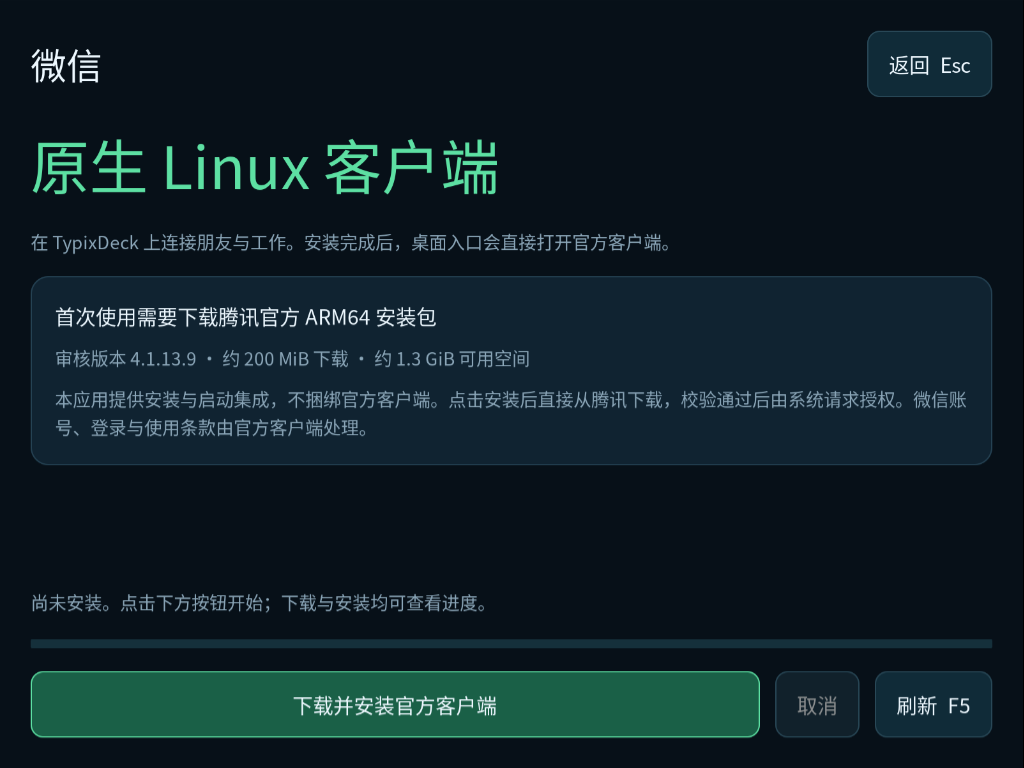
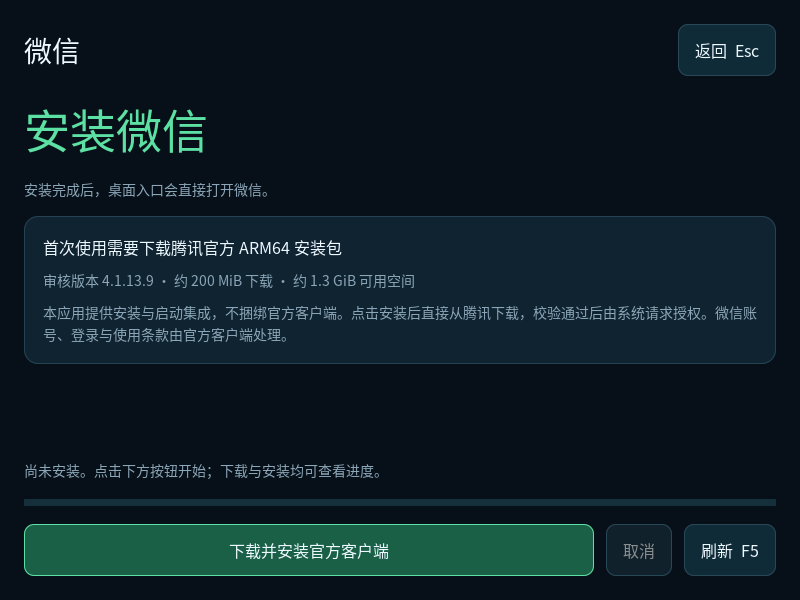
Fix installed WeChat startup and single-instance window supervision

diff --git a/src/typix_wechat/app.py b/src/typix_wechat/app.py
@@ -43,7 +43,7 @@ def label(text, style=None):
 
 
 class WeChatApplication(Gtk.Application):
-    def __init__(self):
+    def __init__(self, startup_error=None):
         super().__init__(application_id=APP_ID, flags=Gio.ApplicationFlags.FLAGS_NONE)
         self.window = None
         self.busy = False
@@ -51,7 +51,7 @@ class WeChatApplication(Gtk.Application):
         self.cancel_event = threading.Event()
         self.transaction = None
         self.close_when_done = False
-        self.first_activation = True
+        self.startup_error = startup_error
         self.cache = Path(os.environ.get("XDG_CACHE_HOME", Path.home() / ".cache")) / "typix-wechat/download"
 
     def do_activate(self):
@@ -82,9 +82,12 @@ class WeChatApplication(Gtk.Application):
         root.pack_start(scroll, True, True, 0)
         content = Gtk.Box(orientation=Gtk.Orientation.VERTICAL, spacing=16)
         scroll.add(content)
-        content.pack_start(label("原生 Linux 客户端", "hero"), False, False, 0)
-        content.pack_start(label("在 TypixDeck 上连接朋友与工作。安装完成后，桌面入口会直接打开官方客户端。", "subtitle"), False, False, 0)
+        self.hero = label("安装微信", "hero")
+        content.pack_start(self.hero, False, False, 0)
+        self.subtitle = label("安装完成后，桌面入口会直接打开微信。", "subtitle")
+        content.pack_start(self.subtitle, False, False, 0)
         info = Gtk.Box(orientation=Gtk.Orientation.VERTICAL, spacing=10)
+        self.install_info = info
         info.get_style_context().add_class("info")
         info.pack_start(label("首次使用需要下载腾讯官方 ARM64 安装包"), False, False, 0)
         info.pack_start(label(f"审核版本 {pinned.VERSION} · 约 200 MiB 下载 · 约 1.3 GiB 可用空间", "subtitle"), False, False, 0)
@@ -110,7 +113,7 @@ class WeChatApplication(Gtk.Application):
         root.pack_end(actions, False, False, 0)
         self.window.show_all()
         self.fullscreen()
-        self.refresh_state(auto_launch=True)
+        self.refresh_state(auto_launch=not self.startup_error)
 
     def fullscreen(self):
         self.window.fullscreen()
@@ -138,14 +141,22 @@ class WeChatApplication(Gtk.Application):
         def done(version, error):
             self.refresh.set_sensitive(True)
             self.installed = version
+            self.update_content()
             self.primary.set_label("打开微信" if version else "下载并安装官方客户端")
             self.primary.set_sensitive(not error)
-            self.status.set_text(error or (f"已安装官方客户端 {version}" if version else "尚未安装。点击下方按钮开始；下载与安装均可查看进度。"))
+            self.status.set_text(error or self.startup_error or (f"已安装官方客户端 {version}" if version else "尚未安装。点击下方按钮开始；下载与安装均可查看进度。"))
+            self.startup_error = None
             self.primary.grab_focus()
             if version and auto_launch and not error:
                 self.start_native()
             return GLib.SOURCE_REMOVE
         self.worker(read, done)
+
+    def update_content(self):
+        self.hero.set_text("打开微信" if self.installed else "安装微信")
+        self.subtitle.set_text("微信已安装。可以重新打开，或返回桌面。" if self.installed
+                               else "安装完成后，桌面入口会直接打开微信。")
+        self.install_info.set_visible(not self.installed)
 
     def set_busy(self, value):
         self.busy = value
@@ -202,6 +213,7 @@ class WeChatApplication(Gtk.Application):
         self.status.set_text("官方客户端安装完成，点击“打开微信”登录。" if success else error or "操作未完成，请检查后重试")
         if success:
             self.installed = pinned.VERSION
+            self.update_content()
             self.primary.set_label("打开微信")
             self.progress.set_fraction(1)
         if self.close_when_done:
@@ -216,6 +228,7 @@ class WeChatApplication(Gtk.Application):
             if error:
                 self.set_busy(False)
                 self.window.show_all()
+                self.update_content()
                 self.fullscreen()
                 self.cancel.set_sensitive(False)
                 self.status.set_text(error)
@@ -253,4 +266,12 @@ def main():
         print("请以普通桌面用户运行微信集成，不要使用 sudo。", file=sys.stderr)
         return 1
     GLib.set_prgname(APP_ID)
-    return WeChatApplication().run(sys.argv)
+    startup_error = None
+    try:
+        if backend.installed_version():
+            # No setup window is created, mapped or registered on this path.
+            backend.launch_native()
+            return 0
+    except Exception as exc:
+        startup_error = str(exc)
+    return WeChatApplication(startup_error=startup_error).run(sys.argv)

diff --git a/tests/test_native_lifecycle.py b/tests/test_native_lifecycle.py
@@ -1,0 +1,107 @@
+"""Exercise the real Launcher supervisor with deterministic compositor events."""
+import unittest
+from unittest.mock import Mock, patch
+from pathlib import Path
+from typix_wechat import backend, pinned
+
+try:
+    from typix_launcher import fullscreen
+except ImportError:
+    fullscreen = None
+
+
+@unittest.skipIf(fullscreen is None, "Typix Launcher runtime required")
+class NativeLifecycleTests(unittest.TestCase):
+    def run_client(self, initial=(), events=(), exit_code=7, available=True):
+        now = [0.0]
+        self.requests = []
+        self.considered = []
+        self.child = Mock()
+        self.child.poll.return_value = exit_code
+        self.child.wait.return_value = exit_code or 0
+        timeline = iter(events)
+        pending = [next(timeline, None)]
+        client = Mock()
+        client.windows = {w.identifier: w for w in initial}
+
+        def poll(_timeout):
+            now[0] += 0.1
+            if now[0] > 15:
+                raise AssertionError("Supervisor failed to finish")
+            if pending[0] and now[0] >= pending[0][0]:
+                windows = {w.identifier: w for w in pending[0][1]}
+                old = client.windows
+                client.windows = windows
+                for identifier in old.keys() - windows.keys():
+                    client.on_closed(old[identifier])
+                for window in windows.values():
+                    client.on_done(window)
+                pending[0] = next(timeline, None)
+
+        def request(window):
+            self.requests.append(window.identifier)
+            window.states.add(fullscreen.FULLSCREEN)
+
+        client.poll.side_effect = poll
+        client.set_fullscreen.side_effect = request
+        if not available:
+            client.connect.side_effect = OSError("test compositor unavailable")
+        with patch.object(backend, "preflight"), \
+                patch.object(backend, "installed_version", return_value=pinned.VERSION), \
+                patch.object(Path, "exists", return_value=True), \
+                patch.object(backend.subprocess, "Popen", return_value=self.child), \
+                patch.object(backend.time, "monotonic", side_effect=lambda: now[0]), \
+                patch.object(fullscreen, "ForeignToplevelClient", return_value=client), \
+                patch.object(fullscreen, "application_ids", return_value=pinned.NATIVE_IDS), \
+                patch.dict(fullscreen.os.environ, WAYLAND_DISPLAY="test-wayland"):
+            backend.launch_native()
+
+    def window(self, identifier=1, app_id="wechat", parent=0):
+        return fullscreen.Toplevel(identifier, app_id=app_id, parent=parent, ready=True)
+
+    def test_existing_inactive_window_survives_nonzero_forwarder(self):
+        self.run_client(initial=[self.window()], events=[(1, [])], exit_code=7)
+        self.assertEqual(self.requests, [1])
+        self.child.kill.assert_not_called()
+        self.child.terminate.assert_not_called()
+
+    def test_forwarder_can_exit_before_native_window_maps(self):
+        self.run_client(events=[(.3, [self.window()]), (1, [])], exit_code=7)
+        self.assertEqual(self.requests, [1])
+
+    def test_window_close_releases_launcher_with_tray_process_alive(self):
+        self.run_client(events=[(.1, [self.window()]), (1, [])], exit_code=None)
+        self.child.kill.assert_not_called()
+        self.child.terminate.assert_not_called()
+
+    def test_window_replacement_during_startup(self):
+        self.run_client(events=[(.1, [self.window()]), (.3, []),
+                                (.5, [self.window(2)]), (1.5, [])], exit_code=0)
+        self.assertEqual(self.requests, [1, 2])
+
+    def test_failed_process_without_native_window_reports_error(self):
+        with self.assertRaisesRegex(backend.WeChatError, "退出码 7"):
+            self.run_client()
+
+    def test_successful_forwarder_without_window_is_recoverable(self):
+        with self.assertRaisesRegex(backend.WeChatError, "未检测到微信窗口"):
+            self.run_client(exit_code=0)
+
+    def test_live_process_without_window_does_not_block_launcher_forever(self):
+        with self.assertRaisesRegex(backend.WeChatError, "未检测到微信窗口"):
+            self.run_client(exit_code=None)
+        self.child.kill.assert_not_called()
+        self.child.terminate.assert_not_called()
+
+    def test_other_apps_and_transient_dialogs_do_not_mask_failure(self):
+        with self.assertRaises(backend.WeChatError):
+            self.run_client(initial=[self.window(1, "other"), self.window(2, parent=1)])
+        self.assertEqual(self.requests, [])
+
+    def test_compositor_unavailable_preserves_process_failure(self):
+        with self.assertRaisesRegex(backend.WeChatError, "退出码 7"):
+            self.run_client(available=False)
+
+
+if __name__ == "__main__":
+    unittest.main()

diff --git a/src/typix_wechat/backend.py b/src/typix_wechat/backend.py
@@ -226,27 +226,57 @@ def launch_native():
     preflight()
     require(installed_version() is not None and Path("/usr/bin/wechat").exists(), "官方客户端尚未正确安装")
     entry = Path("/usr/share/typix-wechat/native.desktop")
-    with FullscreenSession(entry) as session:
+
+    class NativeSession(FullscreenSession):
+        def _consider(self, window):
+            # Opening WeChat explicitly selects its existing main window too.
+            # Keep this exception local: generic Launcher baseline protection
+            # still applies to all other apps and to transient dialogs.
+            if window.ready and not window.parent and window.app_id.casefold() in pinned.NATIVE_IDS:
+                self._baseline.discard(window.identifier)
+            super()._consider(window)
+
+    with NativeSession(entry) as session:
         child = subprocess.Popen(["/usr/bin/wechat"], cwd=Path.home(),
                                  stdout=subprocess.DEVNULL, stderr=subprocess.DEVNULL)
 
         class WindowLifetime:
             seen = False
+            missing_window = False
 
             def poll(self):
                 if session.client is not None:
-                    active = any(window.ready and not window.parent and window.app_id.casefold() in pinned.NATIVE_IDS
-                                 for window in session.client.windows.values())
-                    self.seen |= active
-                    if self.seen and not active:
-                        return child.poll() or 0
+                    windows = [window for window in session.client.windows.values()
+                               if window.ready and not window.parent and window.app_id.casefold() in pinned.NATIVE_IDS]
+                    for window in windows:
+                        # Existing handles may emit no new done event. Seed
+                        # them after wait() has established its startup deadline.
+                        session._consider(window)
+                    if windows:
+                        self.seen = True
+                        return None
+                    if self.seen:
+                        # Closing a visible window succeeds even if a forwarding
+                        # helper exited nonzero or the tray process stays alive.
+                        return 0
+                    if time.monotonic() < session._deadline:
+                        # A single-instance helper can exit before its forwarded
+                        # activation maps a window. Allow bounded startup time.
+                        return None
+                    code = child.poll()
+                    if code in (None, 0):
+                        self.missing_window = True
+                        return 1
+                    return code
                 return child.poll()
 
             def wait(self):
                 return child.wait()
 
-        code = session.wait(WindowLifetime())
+        lifetime = WindowLifetime()
+        code = session.wait(lifetime)
         if child.poll() is None:
             # Reap only; never terminate the client's optional tray process.
             threading.Thread(target=child.wait, daemon=True, name="wechat-native-reaper").start()
+        require(not lifetime.missing_window, "未检测到微信窗口，请稍后重试；也可检查客户端是否停留在托盘。")
         require(code == 0, f"官方客户端启动失败（退出码 {code}），请检查系统运行依赖")

diff --git a/tests/test_startup.py b/tests/test_startup.py
@@ -1,0 +1,60 @@
+"""No setup GUI on installed launches; missing client and errors stay recoverable."""
+import unittest
+from unittest.mock import patch
+
+try:
+    from typix_wechat import app
+except ImportError:
+    app = None
+
+
+@unittest.skipIf(app is None, "GTK3 runtime required")
+class StartupTests(unittest.TestCase):
+    def setUp(self):
+        for target, options in [
+            ("os.geteuid", {"return_value": 1000}),
+            ("GLib.set_prgname", {}),
+            ("backend.installed_version", {"return_value": "4.1.13.9"}),
+            ("backend.launch_native", {}),
+            ("WeChatApplication", {}),
+        ]:
+            component, name = target.rsplit(".", 1) if "." in target else ("", target)
+            owner = app
+            for part in component.split(".") if component else []:
+                owner = getattr(owner, part)
+            guard = patch.object(owner, name, **options)
+            setattr(self, name, guard.start())
+            self.addCleanup(guard.stop)
+        self.WeChatApplication.return_value.run.return_value = 0
+
+    def test_installed_client_never_creates_setup_window(self):
+        self.assertEqual(app.main(), 0)
+        self.launch_native.assert_called_once()
+        self.WeChatApplication.assert_not_called()
+
+    def test_missing_client_opens_setup_without_starting_native(self):
+        self.installed_version.return_value = None
+        self.assertEqual(app.main(), 0)
+        self.launch_native.assert_not_called()
+        self.WeChatApplication.assert_called_once_with(startup_error=None)
+
+    def test_real_native_error_opens_recovery_without_auto_retry(self):
+        self.launch_native.side_effect = RuntimeError("test startup failure")
+        self.assertEqual(app.main(), 0)
+        self.WeChatApplication.assert_called_once_with(startup_error="test startup failure")
+
+    def test_package_check_failure_is_recoverable(self):
+        self.installed_version.side_effect = RuntimeError("test package check failure")
+        self.assertEqual(app.main(), 0)
+        self.launch_native.assert_not_called()
+        self.WeChatApplication.assert_called_once_with(startup_error="test package check failure")
+
+    def test_root_never_launches_native_or_gui(self):
+        self.geteuid.return_value = 0
+        self.assertEqual(app.main(), 1)
+        self.launch_native.assert_not_called()
+        self.WeChatApplication.assert_not_called()
+
+
+if __name__ == "__main__":
+    unittest.main()

diff --git a/tests/test_security.py b/tests/test_security.py
@@ -176,31 +176,6 @@ class PackageTests(unittest.TestCase):
         self.assertFalse((target / (pinned.SHA256 + ".deb")).exists())
         self.assertEqual([item.name for item in target.iterdir()], [".lock"])
 
-    def test_native_tray_process_does_not_hold_launcher_after_window_closes(self):
-        session = SimpleNamespace(client=SimpleNamespace(windows={}))
-
-        def wait(proxy):
-            session.client.windows[1] = SimpleNamespace(ready=True, parent=0, app_id="wechat")
-            self.assertIsNone(proxy.poll())
-            session.client.windows.clear()
-            self.assertEqual(proxy.poll(), 0)
-            return 0
-
-        session.wait = wait
-        context = Mock()
-        context.__enter__ = Mock(return_value=session)
-        context.__exit__ = Mock(return_value=False)
-        module = ModuleType("typix_launcher.fullscreen")
-        module.FullscreenSession = Mock(return_value=context)
-        child = Mock()
-        child.poll.return_value = None  # Official tray process remains alive.
-        child.wait.return_value = 0
-        with patch.dict(sys.modules, {"typix_launcher.fullscreen": module}), \
-                patch.object(backend, "preflight"), patch.object(backend, "installed_version", return_value=pinned.VERSION), \
-                patch.object(Path, "exists", return_value=True), patch.object(backend.subprocess, "Popen", return_value=child):
-            backend.launch_native()
-        child.terminate.assert_not_called()
-        child.kill.assert_not_called()
 
 
 class HeaderHandler(BaseHTTPRequestHandler):

diff --git a/src/typix_wechat/__init__.py b/src/typix_wechat/__init__.py
@@ -1,2 +1,2 @@
 """Native GTK integration for the separately downloaded official WeChat client."""
-__version__ = "0.1.0"
+__version__ = "0.1.1"
